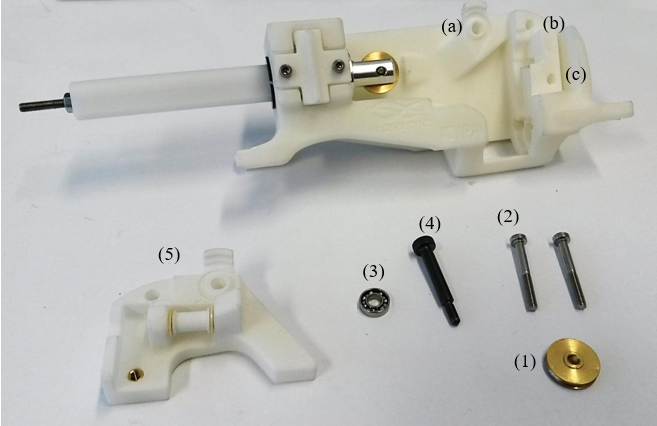
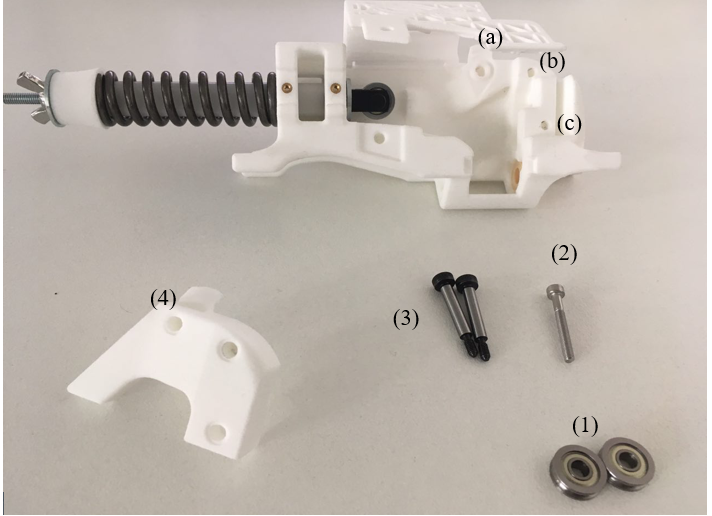
Amendments to step 6

diff --git a/source/Assembly/D3.4_final.rst b/source/Assembly/D3.4_final.rst
@@ -2658,8 +2658,6 @@ Slide the pulley yoke with the threaded rod from the right through the **clip pl
 
 Slide the spring guide shaft from the left through the clip plain bearings so that the threaded rod passes in its middle. Fix the rod on the shaft with the **nut and washer (7)**.
 
-
-
 **Step 3: Mount the spring**
 
 .. _D3.4_image140:
@@ -2671,7 +2669,6 @@ Slide first the **spring (1)** then the **spacer sleeve (2)** from the left over
 Use the **washer (3)** to push the spacer sleeve until it starts to preload the spring.
 
 Then fix in place with the **wing nut (5)**.
-
 
 **Step 4: Assemble the cross-guide**
 
@@ -2703,11 +2700,11 @@ Fix the printed pulley to the cover by inserting the **cylindrical pin (5)** thr
 .. figure:: images/image143.png
     :align: center
 
-Insert the **screws (2) and (4)** from the back of the housing in holes (a), (b) and (c). The **black screw (4)** must be in hole (a).
+Insert the **screws (2) and (3)** from the back of the housing in holes (a), (b) and (c). One **black screw (4)** must be in hole (a).
 
-Use the screw in hole (c) as axle for the **brass pulley (1)** and the black screw in hole (a) as axle for the **ball-bearing pulley** **(3).**
+The other **black screw (3)** goes in hole (c) as an axle for one of the **bearings (1)** and other black screw in hole (a) acts as another axle for the other **bearing (1)**.
 
-Mount the **cover (5)** on the housing and tighten all screws. Make sure that the brass pulley can still rotate freely.
+Mount the **cover (4)** on the housing and tighten all screws. Make sure that the brass pulley can still rotate freely.
 
 **Step 7: Mount the spring**
 
